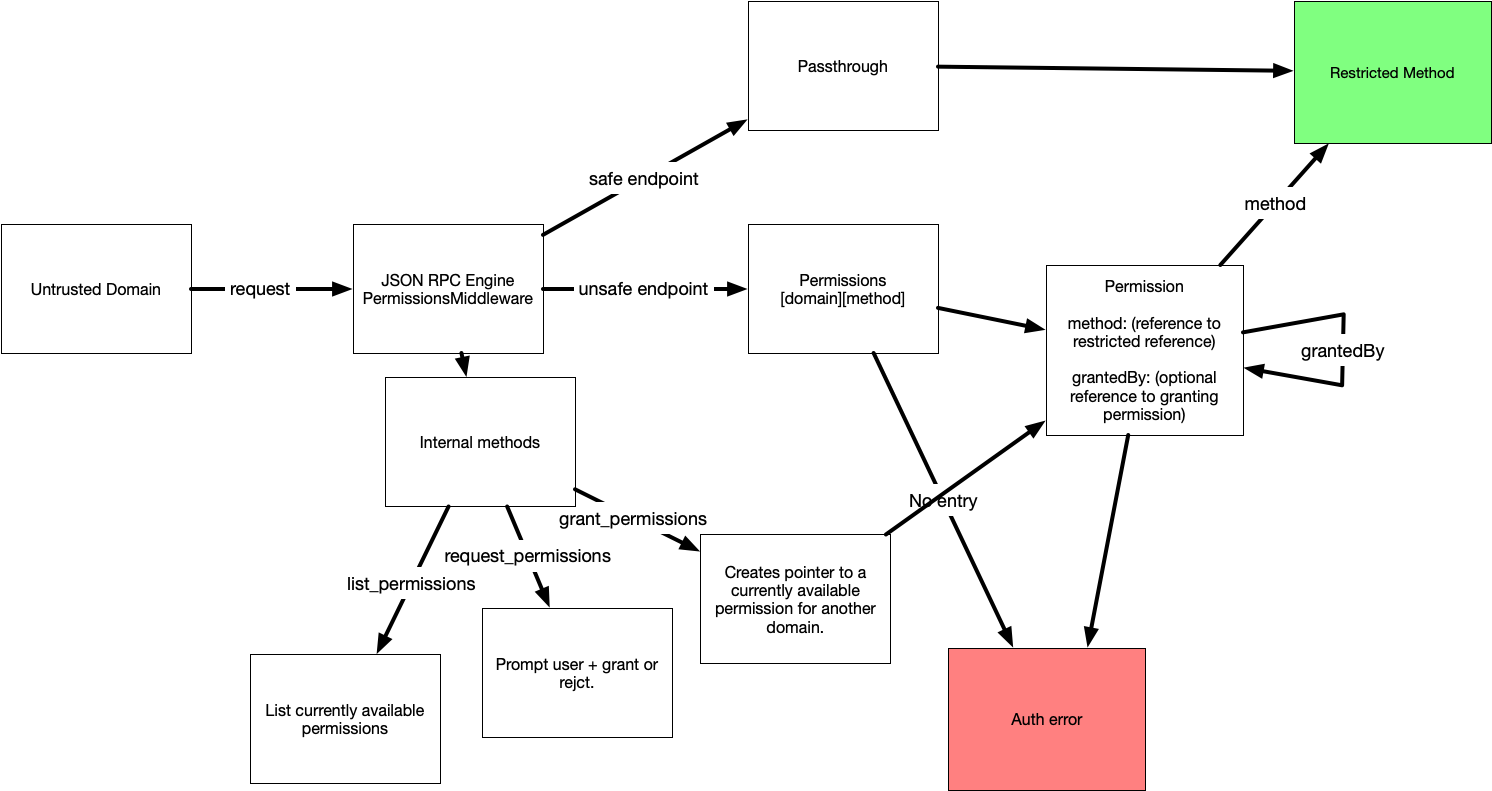
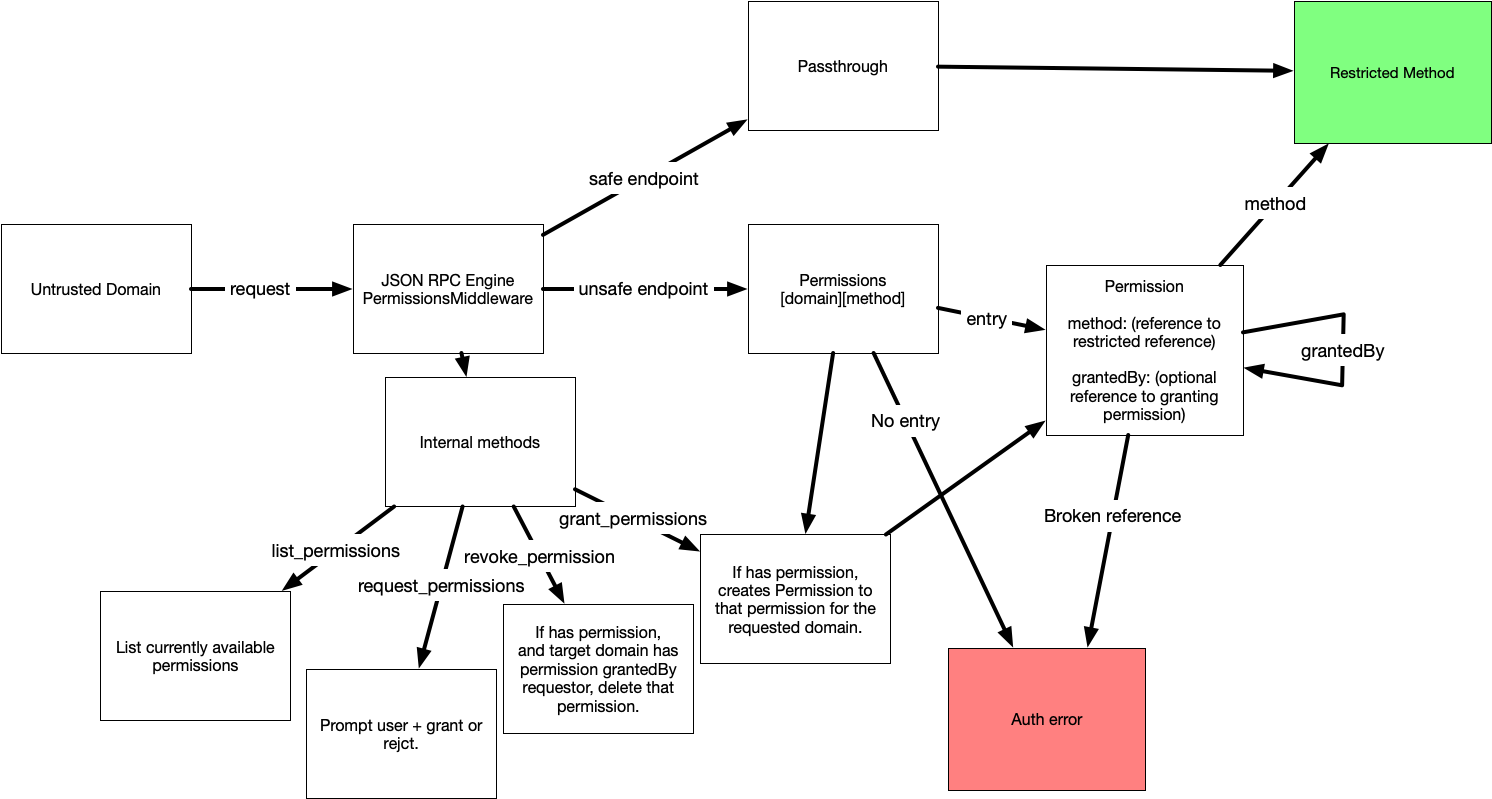
Update diagram to include revocation

diff --git a/test/index.js b/test/index.js
@@ -12,6 +12,9 @@ test('setup test', async (t) => {
     // maybe reading should be a permission, though!
     safeMethods: ['eth_read'],
 
+    // optional prefix for internal methods
+    methodPrefix: 'wallet_',
+
     initState: {
       domains: {
         'metamask': {

diff --git a/README.md b/README.md
@@ -20,6 +20,9 @@ engine.push(new RpcCapabilities({
   safeMethods: ['get_index']
   safeCheckingFunction,
 
+  // optional prefix for internal methods
+  methodPrefix: 'wallet_',
+
   restrictedMethods: {
     {
       'method': 'send_money',
